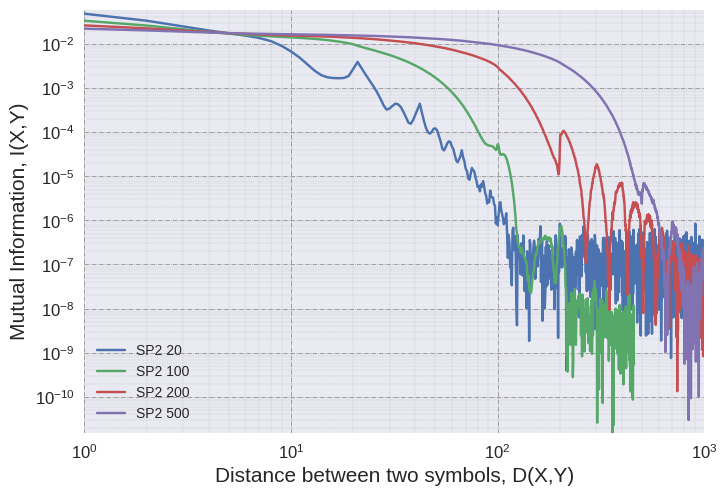
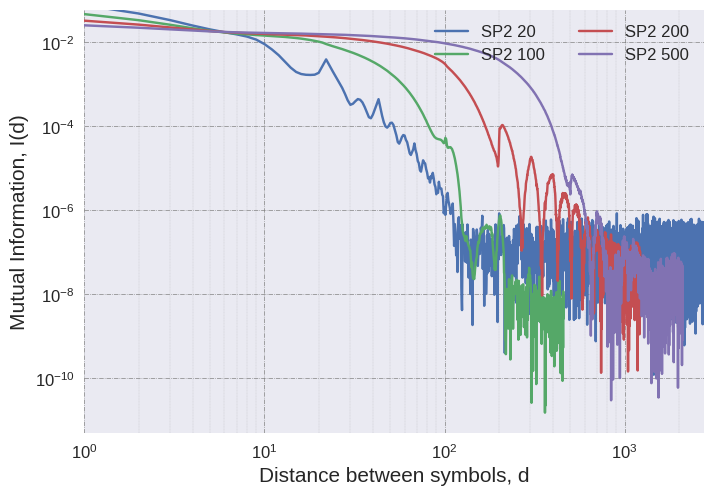
push spk len

diff --git a/paper_related/stuff/plot_sp.py b/paper_related/stuff/plot_sp.py
@@ -48,11 +48,11 @@ with plt.style.context(('seaborn')):
     plt.loglog(np.arange(1,len(all_mi[1])+1), all_mi[1], label="SP2 100")
     plt.loglog(np.arange(1,len(all_mi[2])+1), all_mi[2], label="SP2 200")
     plt.loglog(np.arange(1,len(all_mi[3])+1), all_mi[3], label="SP2 500")
-    plt.loglog(np.arange(1,len(all_mi[4])+1), all_mi[4], label="SP4 100")
-    plt.loglog(np.arange(1,len(all_mi[5])+1), all_mi[5], label="SP16 100")
-    plt.loglog(np.arange(1,len(all_mi[6])+1), all_mi[6], label="SP2 20 V26")
-    plt.loglog(np.arange(1,len(all_mi[7])+1), all_mi[7], label="SP2 20 FS={ab,bc,cd,dc}")
-    plt.loglog(np.arange(1,len(all_mi[8])+1), all_mi[8], label="SP2 20 Small")
+    #plt.loglog(np.arange(1,len(all_mi[4])+1), all_mi[4], label="SP4 100")
+    #plt.loglog(np.arange(1,len(all_mi[5])+1), all_mi[5], label="SP16 100")
+    #plt.loglog(np.arange(1,len(all_mi[6])+1), all_mi[6], label="SP2 20 V26")
+    #plt.loglog(np.arange(1,len(all_mi[7])+1), all_mi[7], label="SP2 20 FS={ab,bc,cd,dc}")
+    #plt.loglog(np.arange(1,len(all_mi[8])+1), all_mi[8], label="SP2 20 Small")
 
     plt.tick_params(labelsize='large', width=5)
     plt.grid(True)
@@ -66,5 +66,5 @@ with plt.style.context(('seaborn')):
     ax.set_xlabel('Distance between symbols, d', fontsize=15)
     ax.set_ylabel('Mutual Information, I(d)', fontsize=15)
     lgd = ax.legend(loc='upper right', shadow=True, fancybox=True, ncol=2, numpoints=1, prop={'size': 12})
-    plt.savefig('spk_', bbox_extra_artists=(lgd,), bbox_inches='tight')
+    plt.savefig('spk_len', bbox_extra_artists=(lgd,), bbox_inches='tight')
     plt.show()
